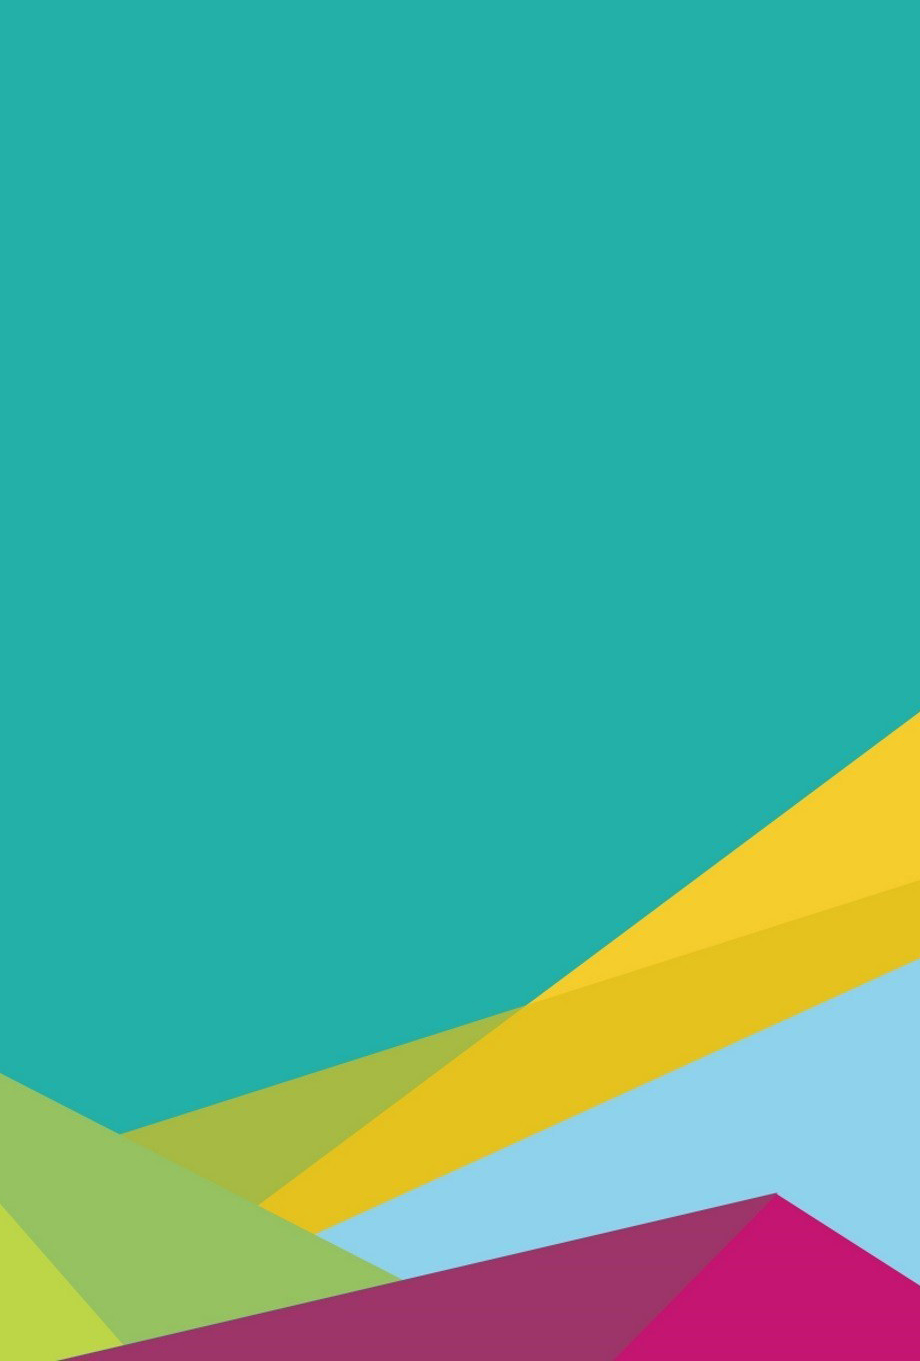
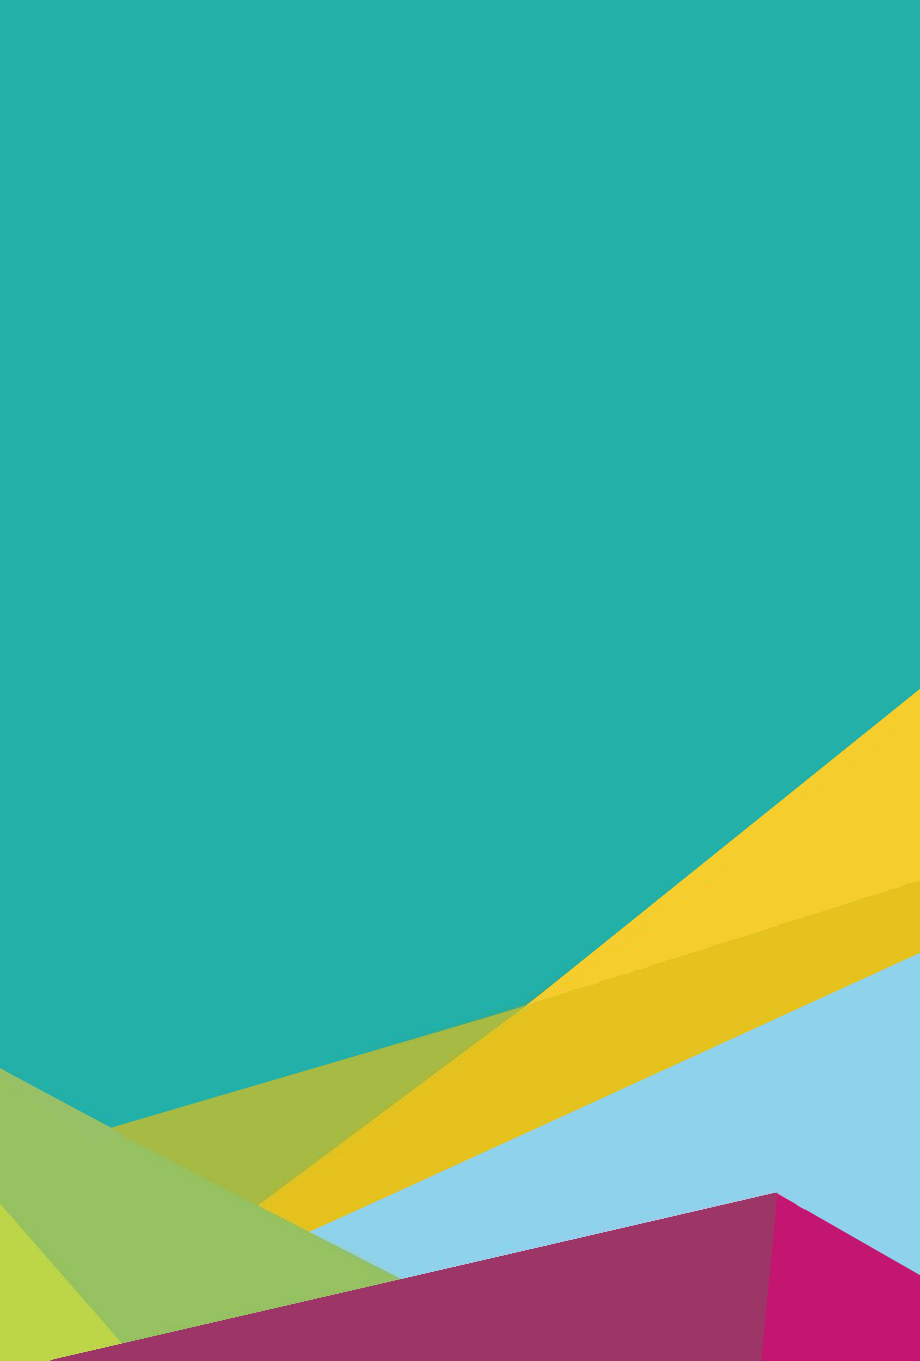
about page updated

diff --git a/WebContent/about.css b/WebContent/about.css
@@ -1,0 +1,100 @@
+@CHARSET "ISO-8859-1";
+
+body {
+  background-image: url("aboutBackground.png");
+  margin-top: 6px;
+  margin-left: 0px;
+  margin-right: 0px;
+  text-align: center;
+  background-repeat: no-repeat;
+  background-color: rgb(35, 176, 168);
+  background-size: calc(130vw * 0.9) 100vh;
+}
+
+.header {
+  display: flex;
+  font-size: 30px;
+  font-weight: bold;
+  font-family: Trebuchet MS;
+  color: #004562;
+  background-color: white;
+  padding-top: 10px;
+  padding-bottom: 10px;
+}
+
+p {
+  font-size: 35px;
+  color: black;
+  font-family: Trebuchet MS;
+}
+
+div a {
+  font-size: 35px;
+  font-weight: bold;
+  font-family: Trebuchet MS;
+  color: #004562;
+  text-decoration: none;
+}
+
+.footer {
+  position:absolute;
+  bottom:0;
+  width:100%;
+  z-index: -1;
+}
+
+div a:hover {
+  color: #096c96;
+}
+
+.header div:last-child {
+  margin-left: auto;
+  /* color: #096c96; */
+}
+
+footer p {
+  font-size: 11px;
+}
+
+div p {
+  margin: 10px 50px 10px 50px;
+}
+
+@media screen and (max-width: 600px) {
+  body {
+		display: block;
+	  margin-top: 6px;
+	  margin-left: 0px;
+	  margin-right: 0px;
+	  background-image: url("phoneWallpaperAbout.png");
+  	background-repeat: no-repeat;
+		background-color: rgb(35, 176, 168);
+		background-size: 100vw 100vh;
+	}
+
+  div p {
+    font-size: 1.5em;
+  }
+
+  a {
+    font-size: 1em;
+  }
+}
+
+@media screen and (max-height: 440px) {
+  div p {
+    font-size: 1.5em;
+  }
+
+
+}
+
+@media screen and (max-height: 350px) {
+  .footer {
+    display: none;
+  }
+
+  body {
+    background-image: none;
+  }
+}

diff --git a/WebContent/about.html b/WebContent/about.html
@@ -1,7 +1,7 @@
 <!DOCTYPE html>
 <html>
 <head>
-<link href="signupStyle.css" rel="stylesheet">
+<link href="about.css" rel="stylesheet">
 <meta charset="ISO-8859-1">
 <title>About Page</title>
 <link rel="shortcut icon" type="image/x-icon" href="favicon.ico" />
@@ -86,15 +86,17 @@ function validateForm() {
 
 <div class="header">
   <div><a href="index.html ">&nbsp&nbspHOME&nbsp&nbsp&nbsp</a></div>
-  <div><a href="about.html">ABOUT&nbsp&nbsp&nbsp</a></div>
+  <div><a href="about.html" style="color: #096c96;">ABOUT&nbsp&nbsp&nbsp</a></div>
   <div><a>HELP&nbsp&nbsp&nbsp</a></div>
-  <div><a href="Signup.html">SIGN UP&nbsp&nbsp&nbsp</a></div>
+  <div><a href="Signup.html" style="padding-right: 25px;">SIGN UP</a></div>
 </div>
 
 <br>
 
-<div style="padding: 10px 10px 10px 10px">
-<p>This website was created in the Eclipse IDE and Atom Text Editor using HTML, CSS, JavaScript, mySQL, and Java (server-side, runs on Apache Tomcat v7).<br><br><span style="margin-left: 200px;"></span></p>
+<!-- <div class="background"></div> -->
+<div style="padding: 0px 10px 10px 10px">
+<p>This website was created in the Eclipse IDE and Atom Text Editor using HTML, CSS, JavaScript, mySQL, and Java (server-side, runs on Apache Tomcat v7).</p><br>
+<p>Thanks for stopping by, <a href="https://giavinhlam.site" target="_blank">Giavinh.</a></p>
 </div>
 
 <footer>
